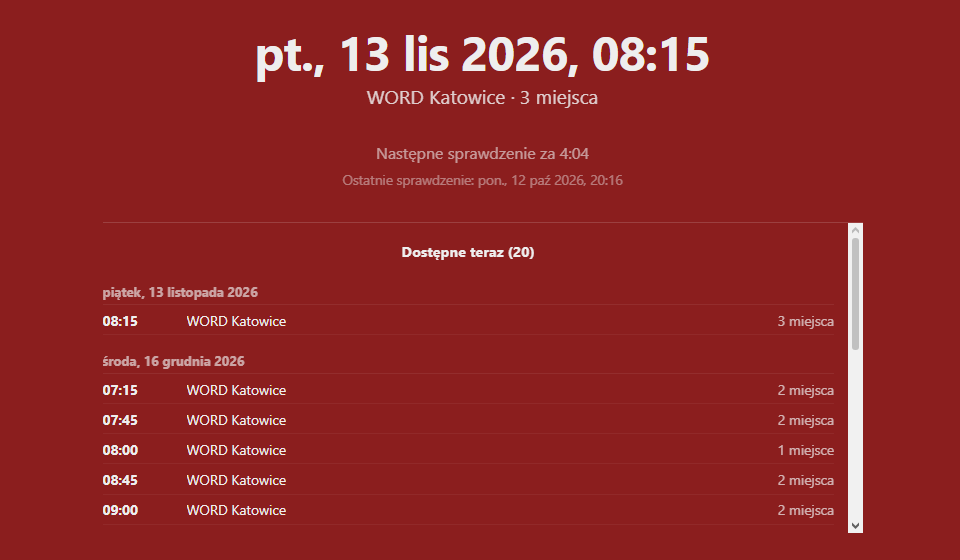
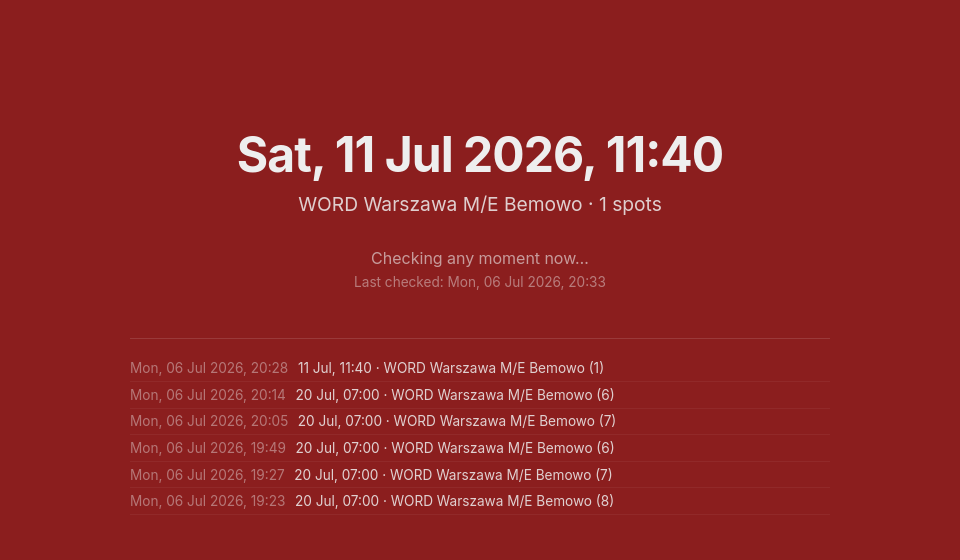
Restore the original dashboard screenshot and give it room (#102)
Keeps it under the download section, but centered at a fixed width with a
caption so it reads as its own figure. Also drops the README wording that
described the current booking date as optional; it is required.

diff --git a/README.md b/README.md
@@ -15,7 +15,7 @@ odnawianie sesji odbywają się automatycznie.
 Find earlier Polish driving exam dates and quickly open or automate the reservation flow on
 [info-kierowca.pl](https://info-kierowca.pl). Sign in once with Profil Zaufany, and the app keeps
 your session active, monitors your chosen exam centers, and alerts you on the dashboard and your
-phone when a suitable slot appears. If you already have a booked exam, its date can be used as the comparison point. When a better slot appears, you can choose it yourself or let the optional automation select it, verify the preliminary summary, and create the reservation through the portal.
+phone when a suitable slot appears. Slots earlier than your current booking count as better. When one appears, you can choose it yourself or let the optional automation select it, verify the preliminary summary, and create the reservation through the portal.
 
 ## Features
 
@@ -34,7 +34,13 @@ phone when a suitable slot appears. If you already have a booked exam, its date 
 
 [View all releases and release notes](../../releases)
 
-![Dashboard showing a found slot](docs/dashboard.png)
+---
+
+<p align="center">
+  <img src="docs/dashboard.png" alt="Dashboard showing a found slot" width="760">
+  <br>
+  <em>The dashboard when an earlier slot is found</em>
+</p>
 
 ## Get started
 
